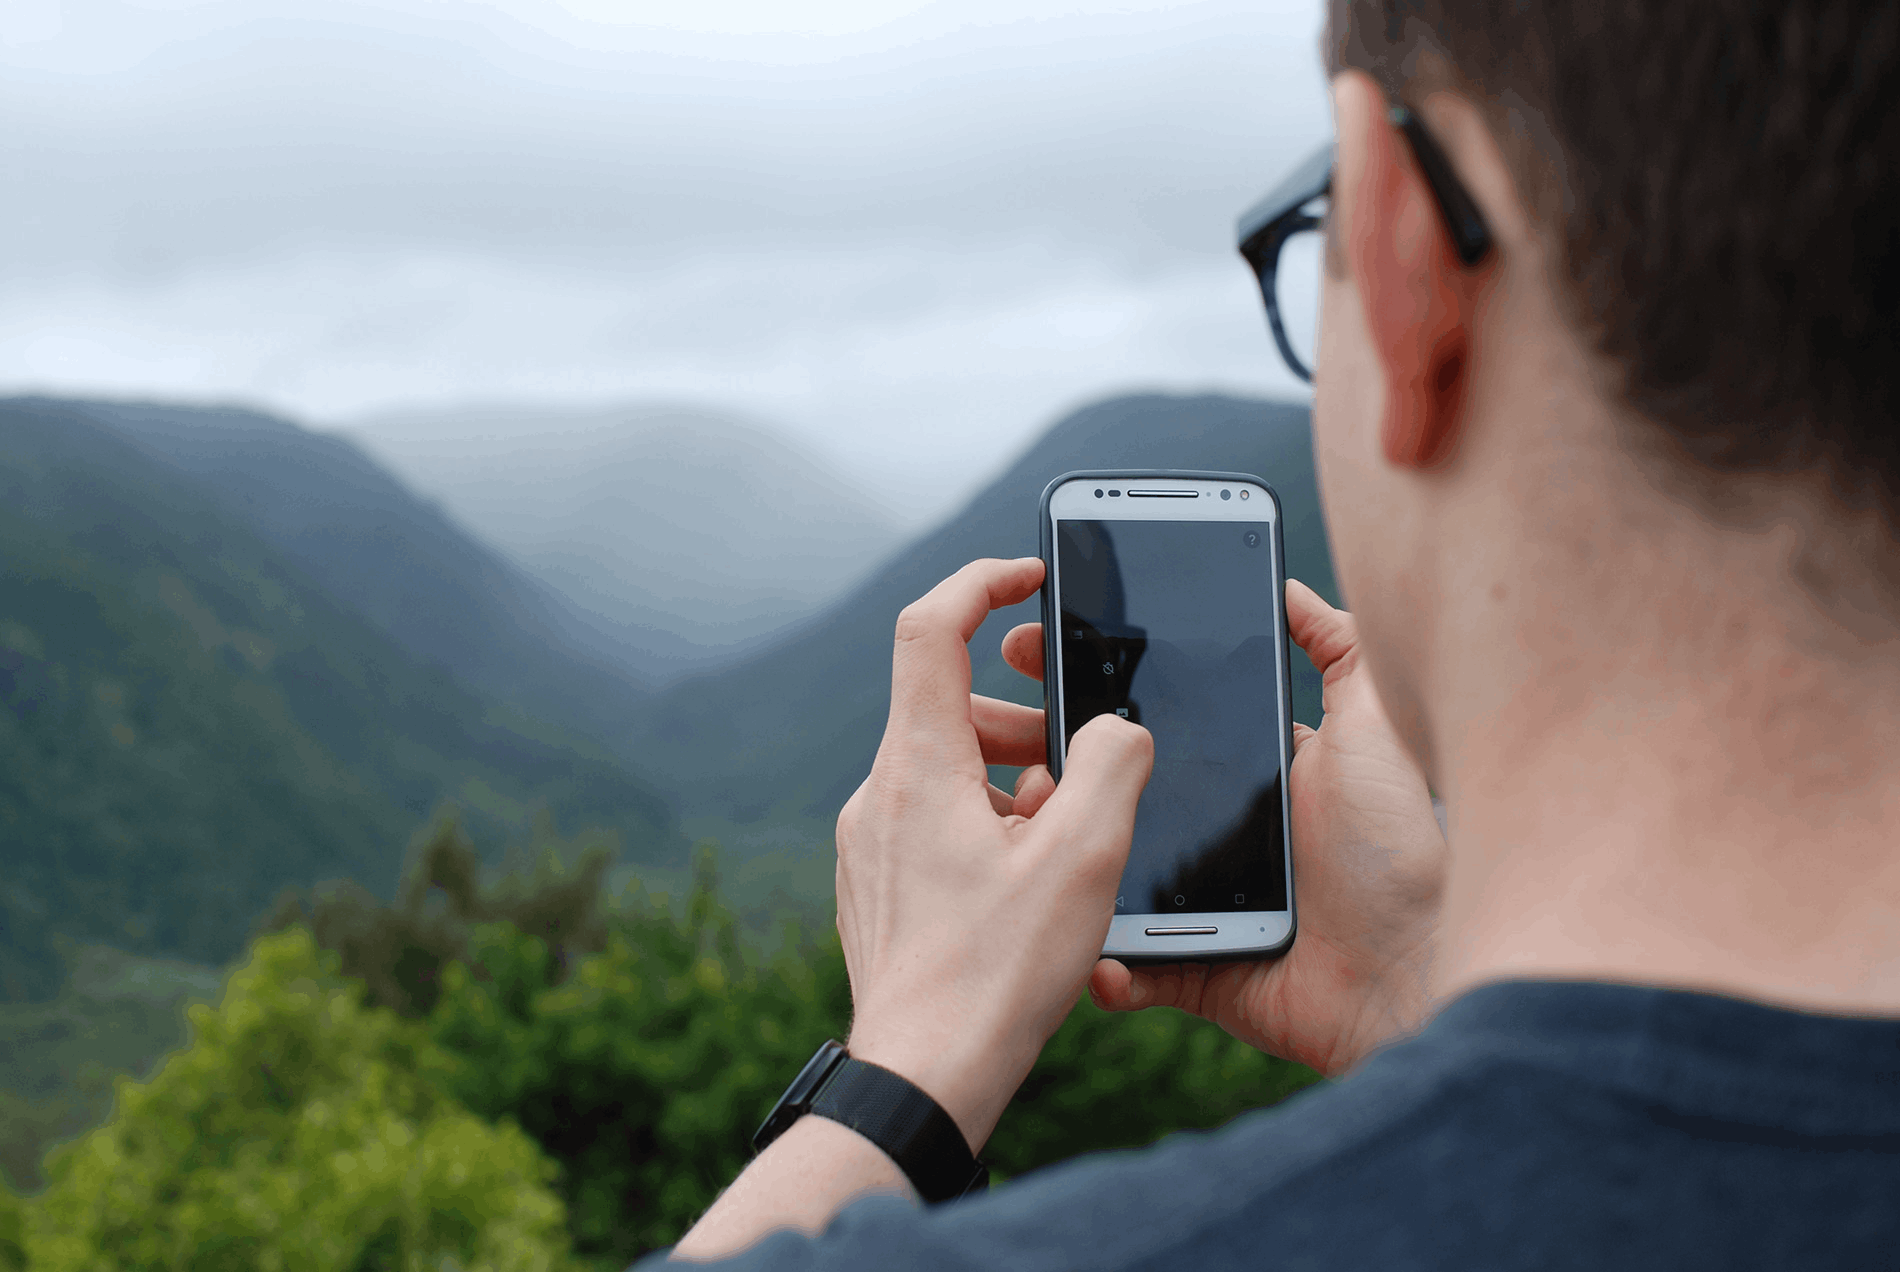
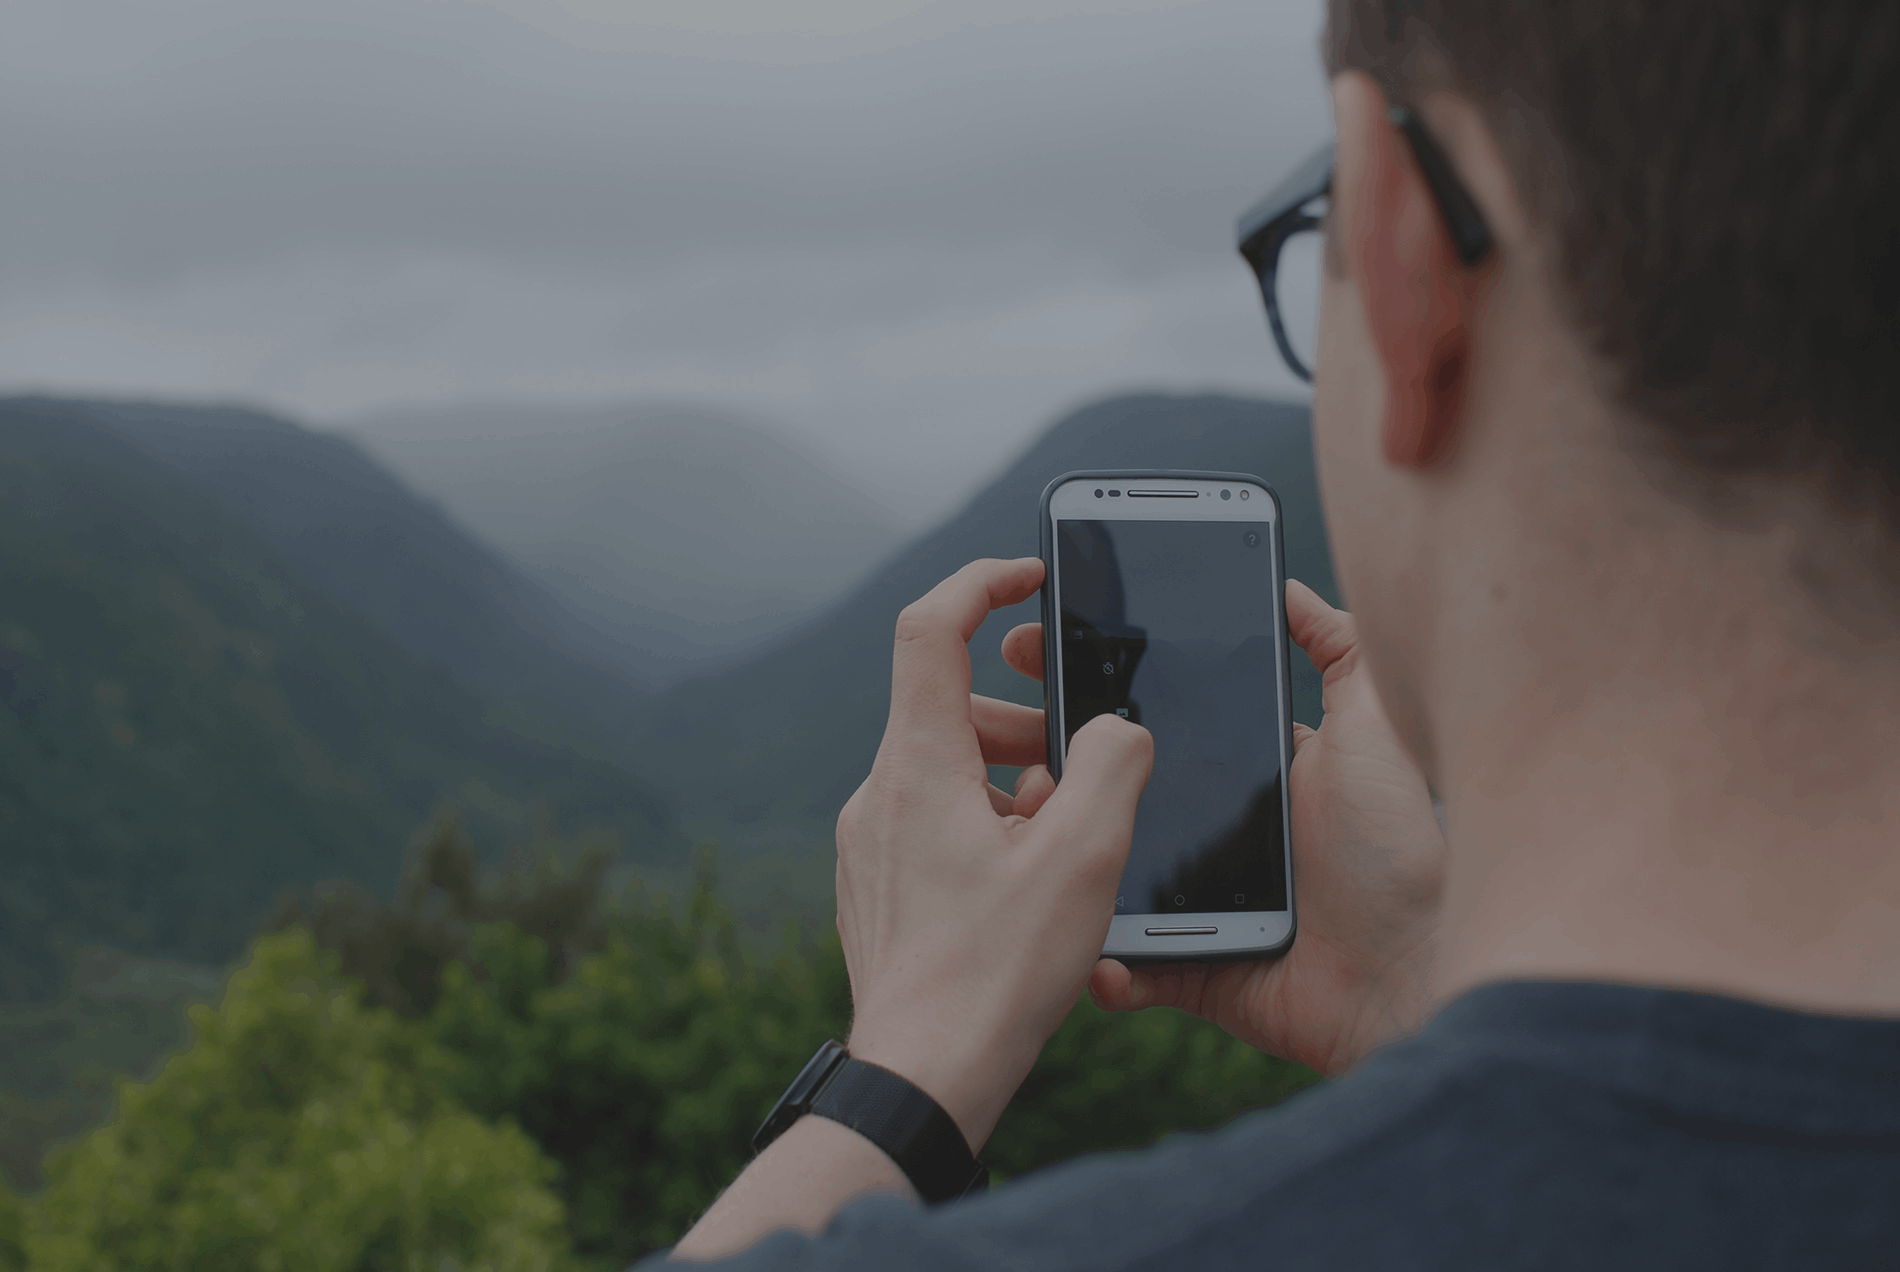
added dark layer to image and updated text

diff --git a/assets/styles.css b/assets/styles.css
@@ -161,6 +161,7 @@ img {
 
 .icon {
     width: 120px;
+    margin: 25px;
 }
 
 .features-video-icons {
@@ -168,7 +169,7 @@ img {
 }
 
 .bg-scene {
-    height: 700px;
+    height: 500px;
     display: flex;
     
 }
@@ -181,7 +182,12 @@ img {
     background-size: cover;
 }
 
-
+.text {
+    margin-top: 180px;
+    margin-left: 40px;
+    font-size: x-large;
+    color: white;
+}
 
 
 @media (max-width: 900px) {
@@ -197,7 +203,7 @@ img {
     }
 
 }
-
+/* fixes border with bg-scene and features sections */
 @media (max-width: 768px) {
     .hero-text {
         font-size: 20px;

diff --git a/index.html b/index.html
@@ -89,7 +89,7 @@
     </div>
     <div class="bg-scene">
        <div class="bg-scene-wrap">
-        <div class="text">Text</div>
+        <div class="text"><h1>Stop Waiting.<br>Start Getting Healthy.</h1></div>
 
        </div>
     </div>
